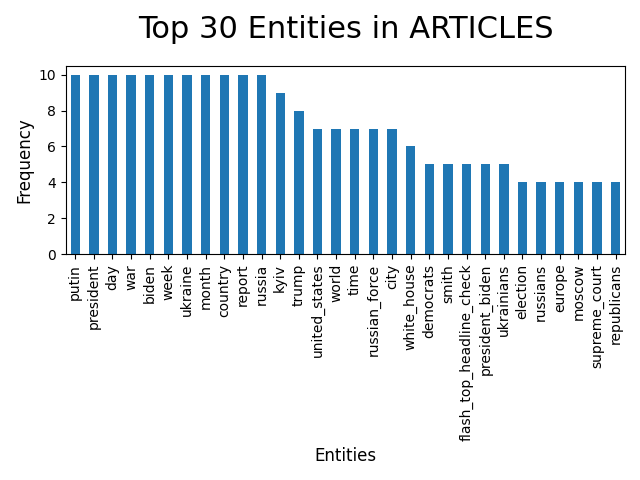
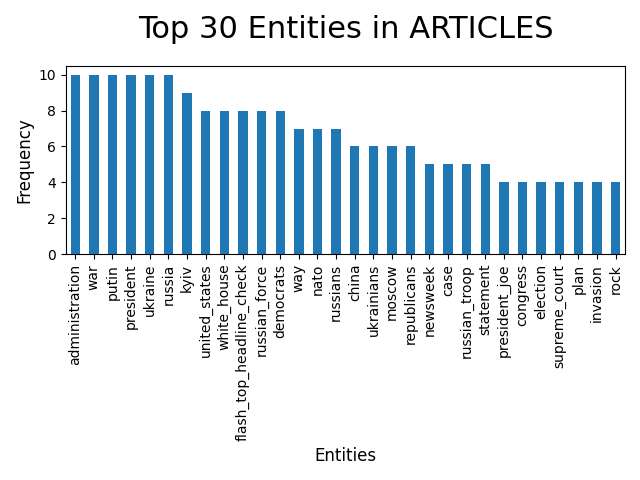
Updated additional stop words.

diff --git a/LDA/LDA.py b/LDA/LDA.py
@@ -138,7 +138,16 @@ def lda(all_text, name):
 
 # Step 4: Run the code
 stop_words = set(stopwords.words('english'))
-additional_stop_words = ['would', 'could', 'get', 'like', '-', 'one', 'also', 'think', 'much', 'know', 'said', 'going', 'abc', 'want', 'back', 'dont', 'even', 'see', 'well', 'really', 'many', 'news', 'mr', 'new', 'fox', 'cnn', 'bbc', 'said', 'say', 'year', 'years', 'people']
+additional_stop_words = [
+    'would', 'could', 'get', 'like', '-', 'one', 'also', 'think', 'much', 'know', 'said', 'going', 'abc',
+    'want', 'back', 'dont', 'even', 'see', 'well', 'really', 'many', 'news', 'mr', 'new', 'fox', 'cnn',
+    'bbc', 'said', 'say', 'year', 'years', 'people', 'report', 'week', 'time', 'help', 'day', 'month',
+    'world', 'country', 'americans', 'biden', 'trump', 'europe', 'twitter', 'thursday', 'tuesday', 'city',
+    'foxnews', 'trump', 'nytimes', 'biden', 'ukraine', 'russia', 'people', 'amp', 'us', 'war', 'via', 'gop',
+    'fox', 'right', 'news', 'hunter', 'nyt', 'bbc', 'cnn', 'today', 'tonight', 'tomorrow', 'monday',
+    'tuesday', 'wednesday', 'thursday', 'friday', 'saturday', 'sunday', 'yesterday', 'nytimes', 'nyc',
+    'administration'
+]
 stop_words.update(additional_stop_words)
 
 # Run LDA on full articles dataset
